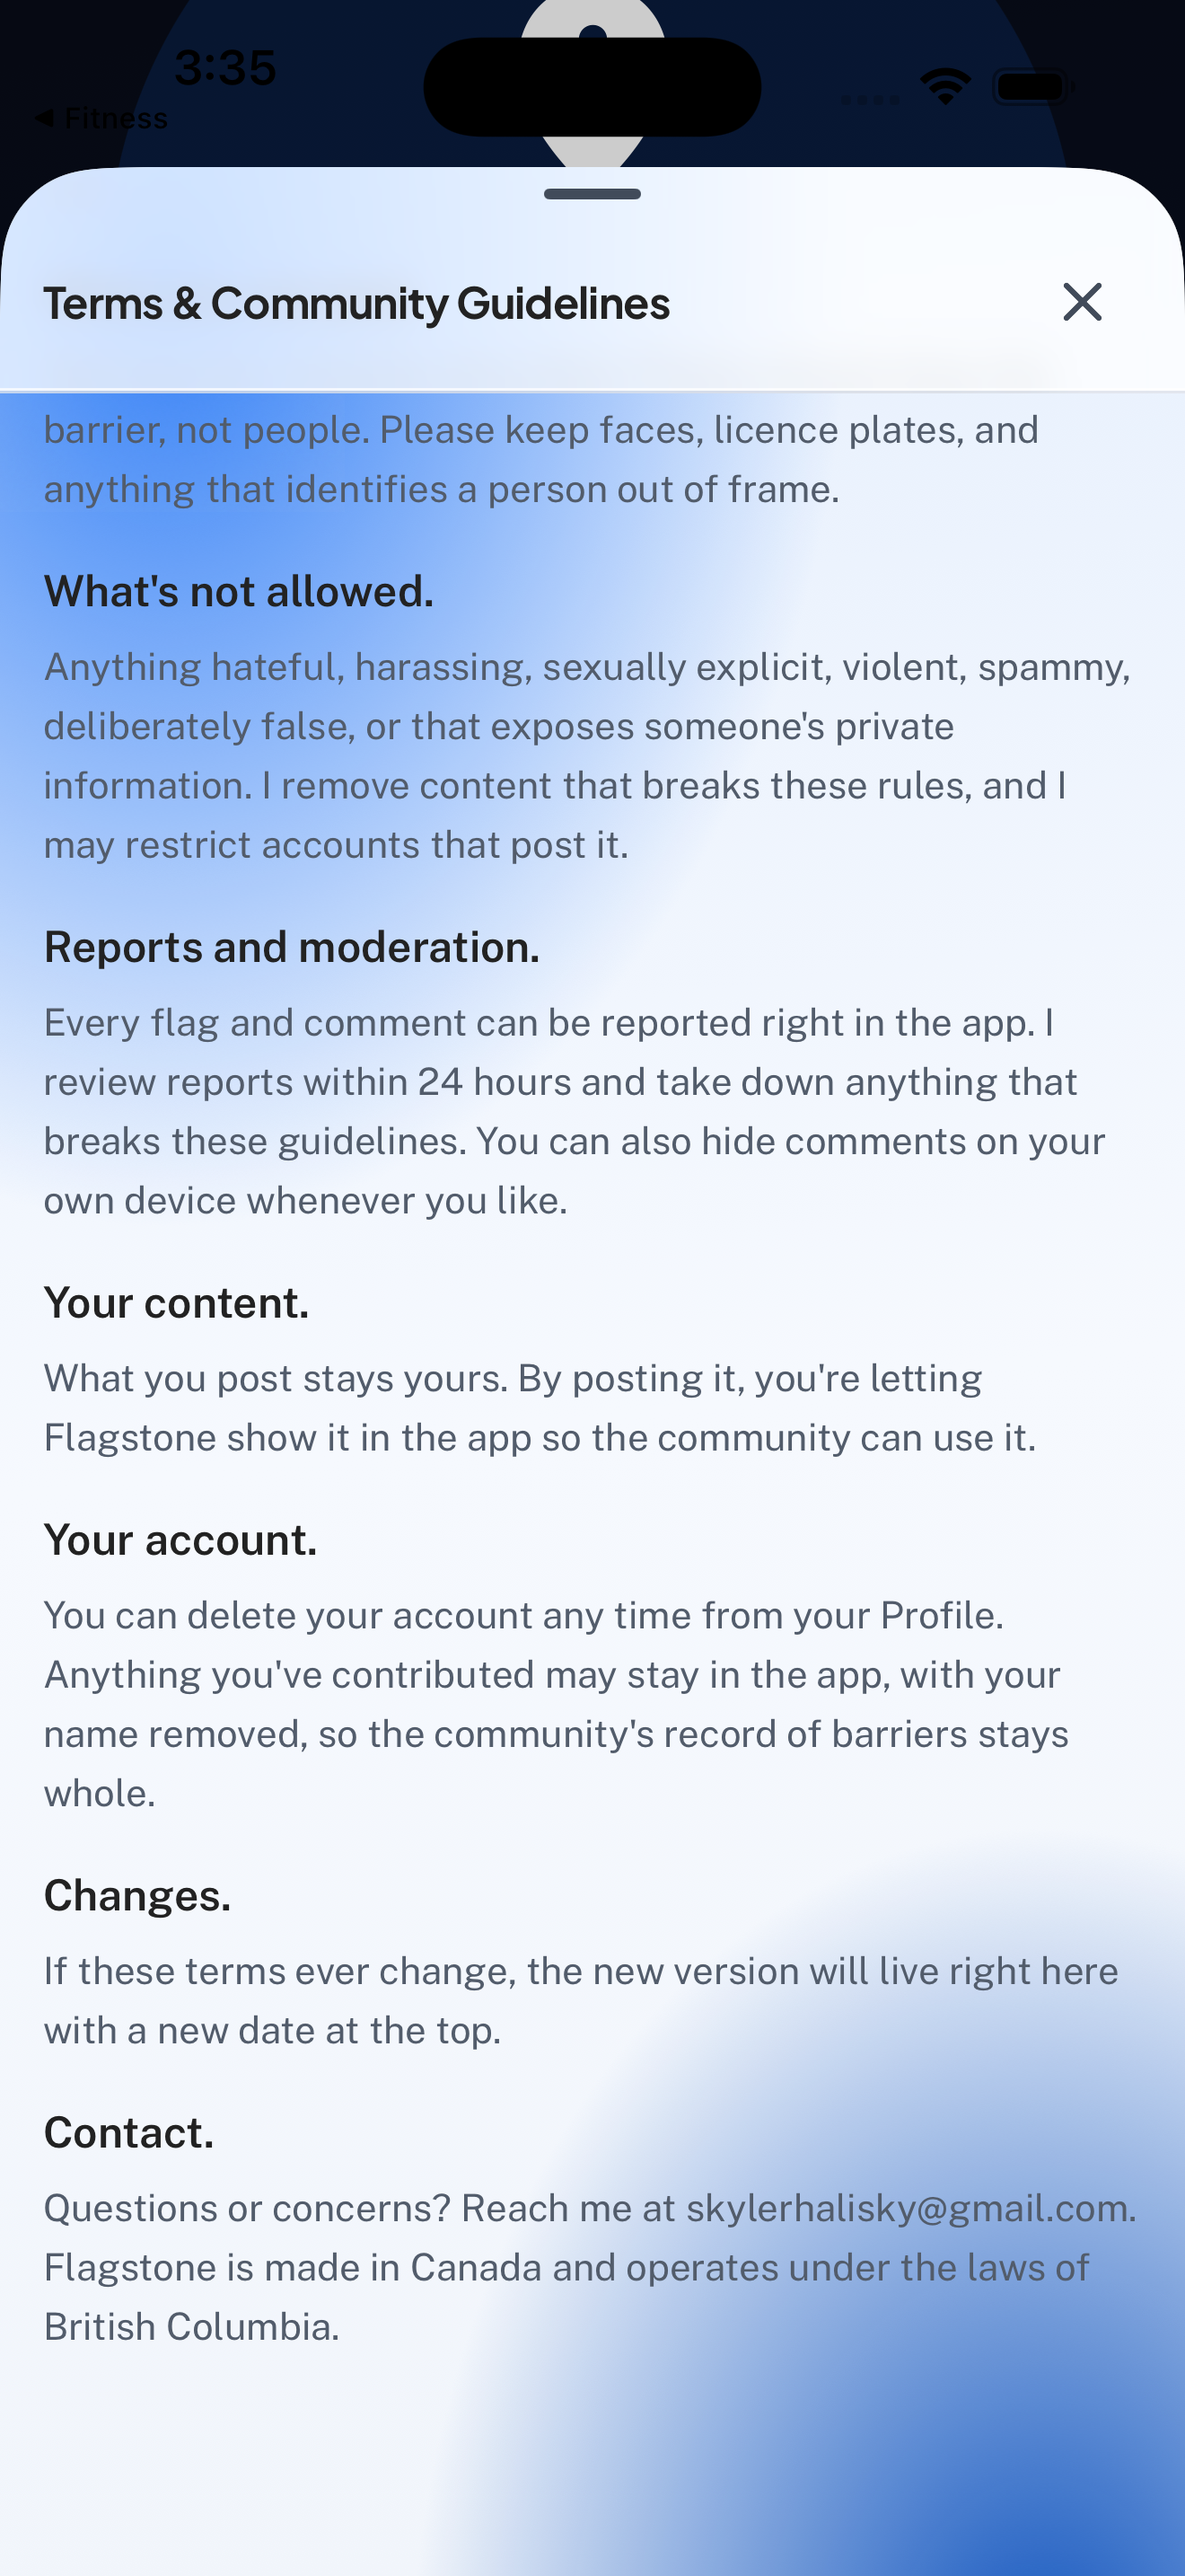
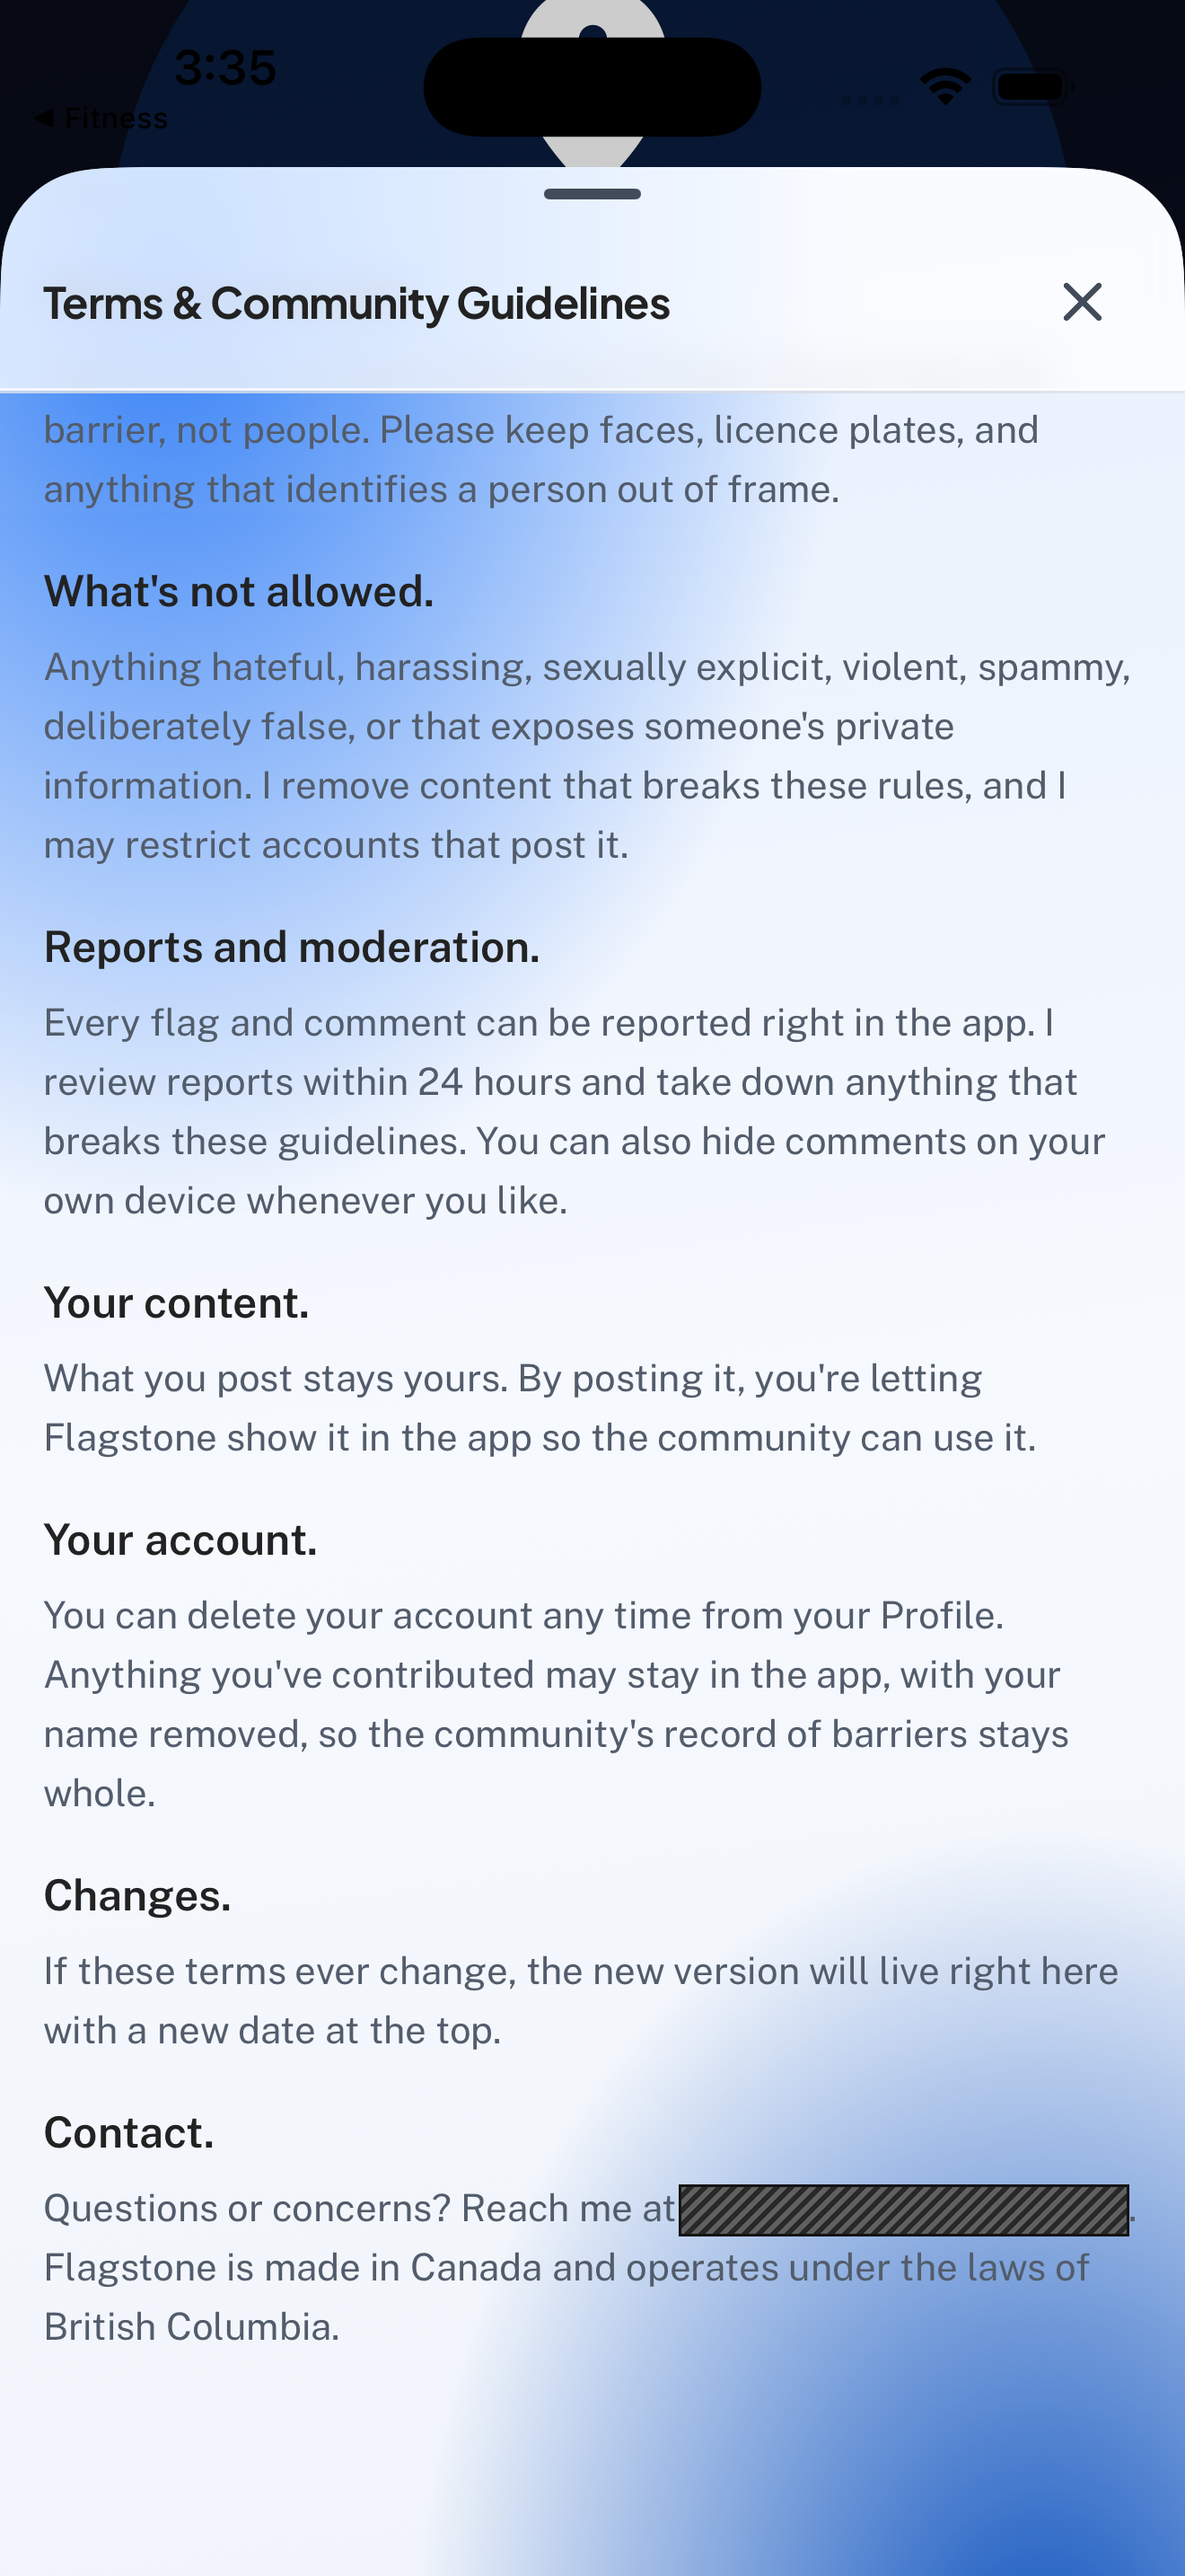
privacy(public-evidence): redact retired contact address in legal-sheet captures
Batch V3. Five guest-mode captures from the 2026-08-19/20 simulator walk
show the Privacy Policy and Terms sheets as they read before
2026-08-23, when the contact address was the owner's personal Gmail. On
2026-08-23 the owner replaced it with support@skypistudio.com everywhere
user-facing (82bd23ae), so these historical captures were the remaining
public copies of an address the owner deliberately retired.

Only the address is covered, by an opaque hatched box, in:
- promax/A2_privacy_retry.png, promax/A2_terms_bottom.png (Terms, "Contact")
- promax/A2_privacy_sheet.png, promax/C15_about_privacy_over.png,
  wave1-verify/W1_legal_sheet_over_about.png (Privacy, "Who runs this")

The rest of the legal copy, sheet geometry and presentation, the
technical subjects of these captures, is untouched. Dimensions unchanged;
changed pixels equal the box areas (0.7-0.8%). Checked and needing no
change: every other legal/About/Resources capture in art-direction,
ship-ready and qa-reports assets.

Claude-Session: https://claude.ai/code/session_014WaV96nDkgbF6N7NiEpHgV

Changed region(s): [[0.5591, 0.8379, 0.9629, 0.8689]]

diff --git a/CLOUD_CHECKPOINT.md b/CLOUD_CHECKPOINT.md
@@ -41,10 +41,11 @@ SAFE_TO_RESUME: YES
 - T5 (08bbac58): art-direction 2026-08-21 + v4.1.1 EAS readiness, 5 files (incl. truncated email form).
 - V1a (73656d0c): 6 sim-walk signed-in Profile-family captures (name/email/monogram; own-report card detail).
 - V1b (ee26abca): 6 sim-walk captures (leaderboard x3 name only - JA/ME monograms kept as SW-44 evidence; achievements ghost name; export share-sheet email; 17e Profile name/email/monogram).
-- V2: 4 art-direction signed-in Profile captures (name/email/monogram; AXL ellipsis kept as truncation evidence). _nav/_stats KEEP_UNCHANGED (no identity on screen).
+- V2 (08a0aeec): 4 art-direction signed-in Profile captures (name/email/monogram; AXL ellipsis kept as truncation evidence). _nav/_stats KEEP_UNCHANGED (no identity on screen).
+- V3: 5 sim-walk guest captures of pre-2026-08-23 legal copy (contact address only; owner retired it on 2026-08-23, commit 82bd23ae).
 
 ## Open item IDs
 - FD-01 history, FD-02 frozen-path PII (eas.json appleId, RLS maintainer email, test fixture display name), FD-03 hash-bound captures, FD-04 intentional contacts / operational docs, FD-05 About, FD-06 merge, FD-07 rename.
 
 ## NEXT_ACTION
-Visual review DONE (481 images inspected; 23 need derivatives). Next: V1-V3 image redaction, then P1 email batches.
+Visual review + redaction DONE (481 inspected; 21 derivatives: V1a 6, V1b 6, V2 4, V3 5). Next: P1 owner-email batches (qa-reports/**, design-reviews/** non-bound), then PUBLIC_EVIDENCE.md + README.
